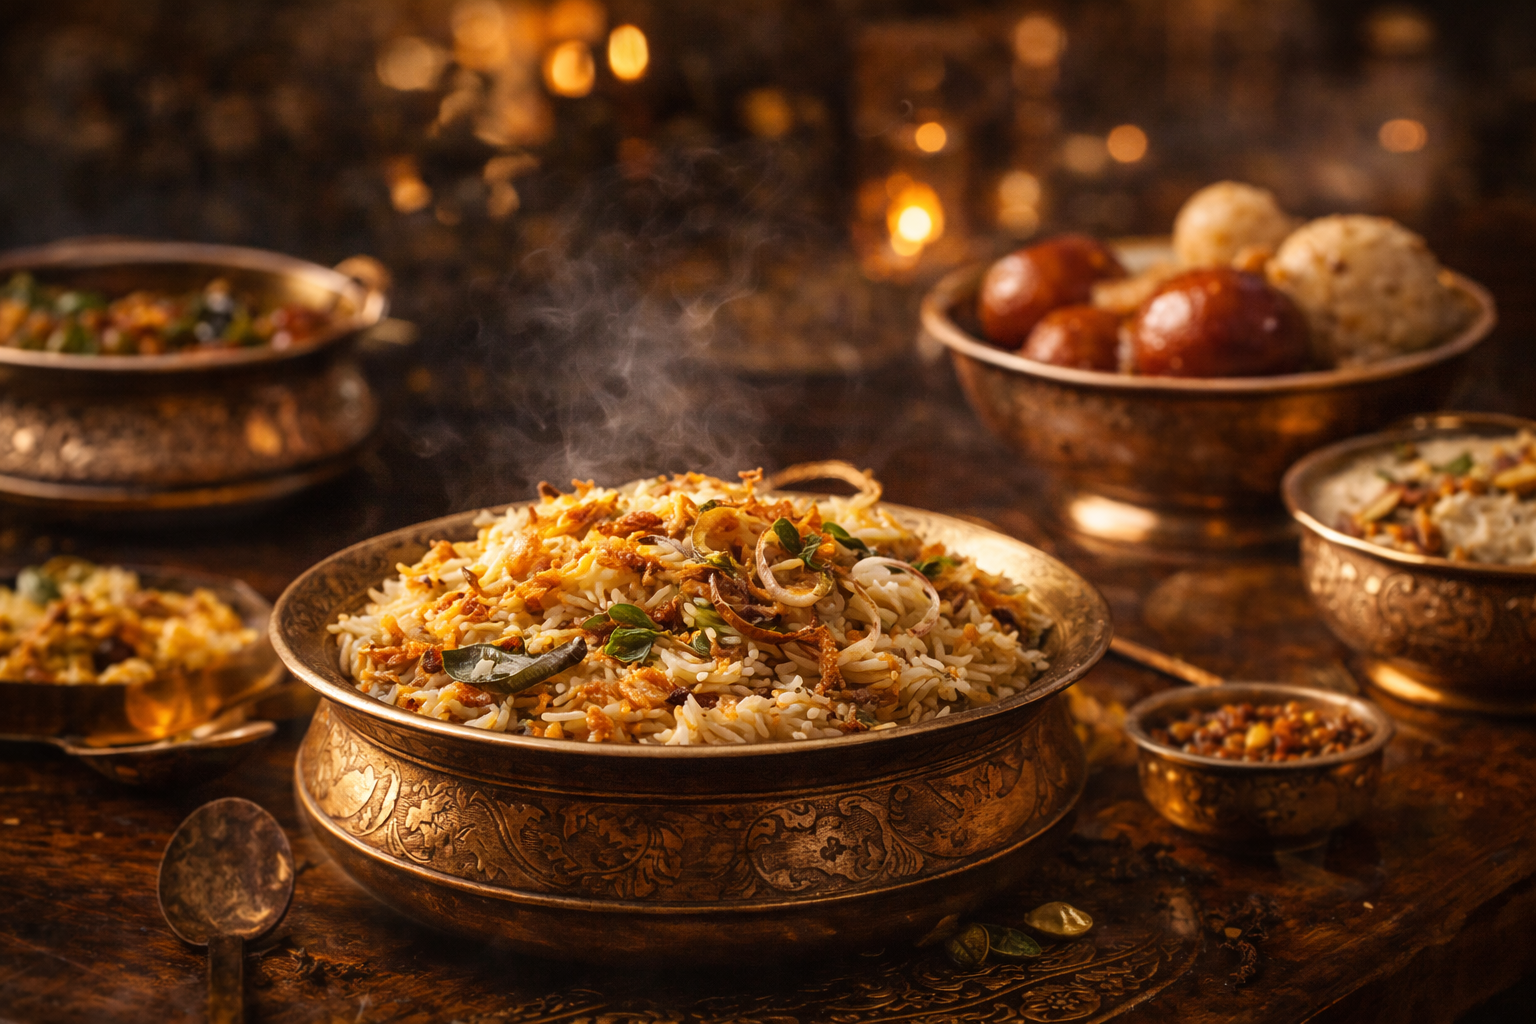
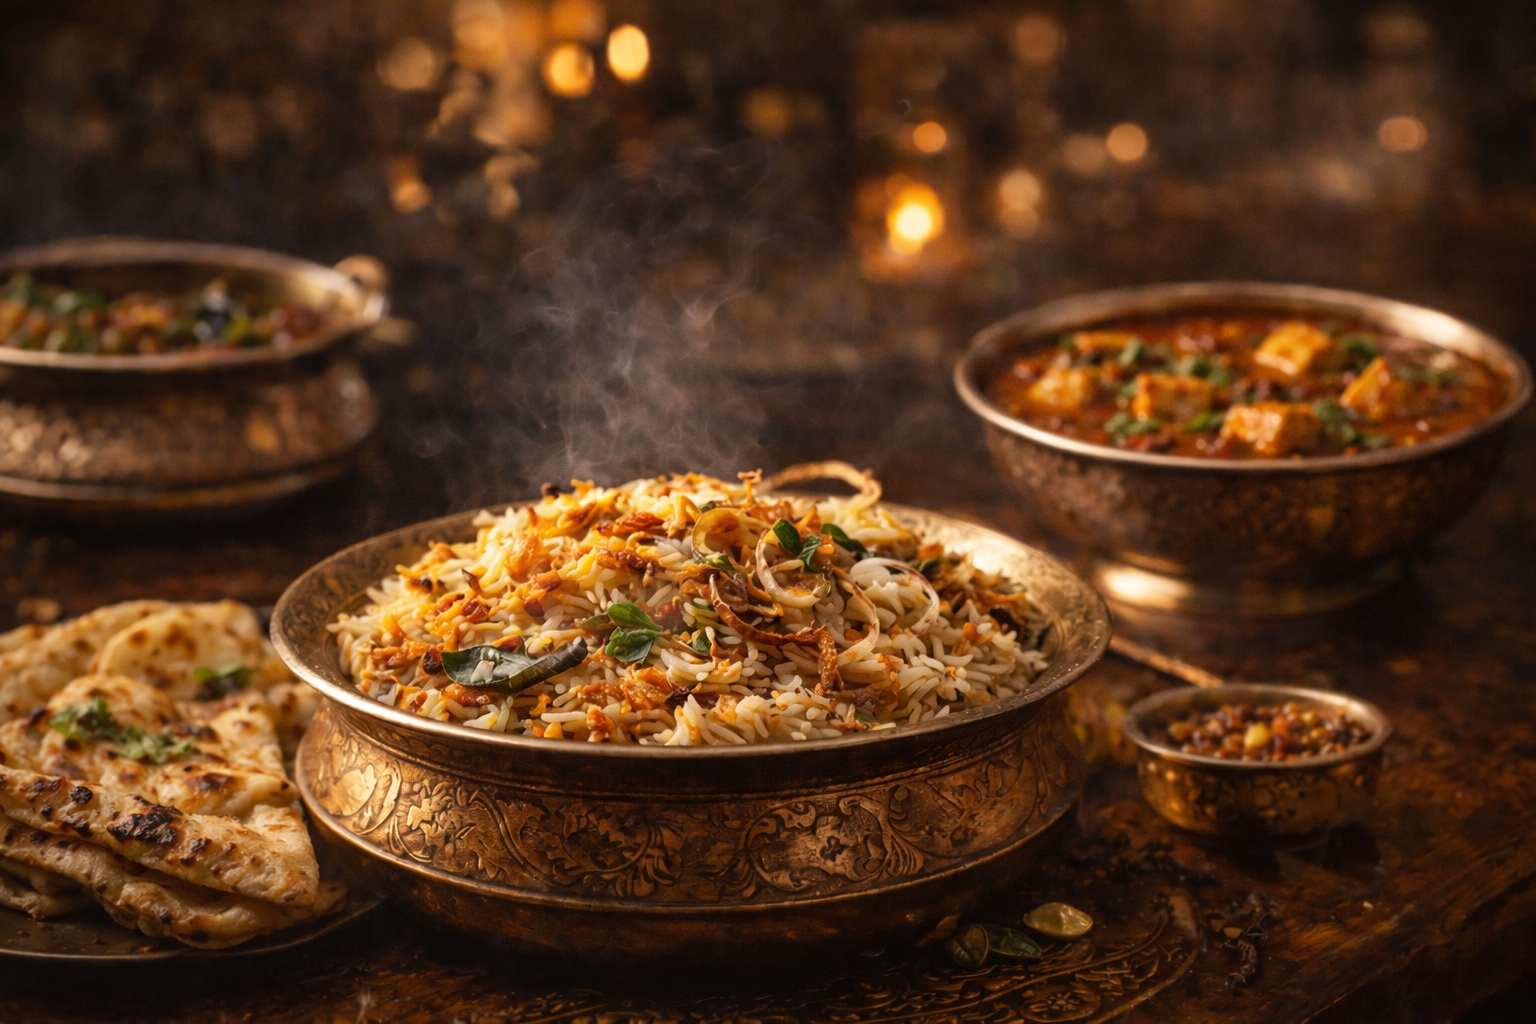
Update images and fix decorative elements

diff --git a/index.html b/index.html
@@ -76,20 +76,20 @@
     <section class="menu-gallery">
         <div class="gallery-grid">
             <div class="gallery-item">
-                <img src="images/continental.jpg" alt="Continental & Italian">
+                <img src="images/continental.png" alt="Continental & Italian">
                 <div class="gallery-caption">Continental & Italian</div>
             </div>
             <div class="gallery-item">
-                <img src="images/asian.jpg" alt="Asian & Indian">
-                <div class="gallery-caption">Asian & Indian</div>
+                <img src="images/dessert.png" alt="Desserts">
+                <div class="gallery-caption">Desserts</div>
             </div>
             <div class="gallery-item">
-                <img src="images/biryani.png" alt="Biryani & Desserts">
-                <div class="gallery-caption">Biryani & Desserts</div>
+                <img src="images/biryani.png" alt="Indian">
+                <div class="gallery-caption">Indian</div>
             </div>
             <div class="gallery-item">
                 <img src="images/beverages.png" alt="Beers & Beverages">
-                <div class="gallery-caption">Craft Beers & Beverages</div>
+                <div class="gallery-caption">Beers & Beverages</div>
             </div>
         </div>
         <div class="decorative-divider"></div>
